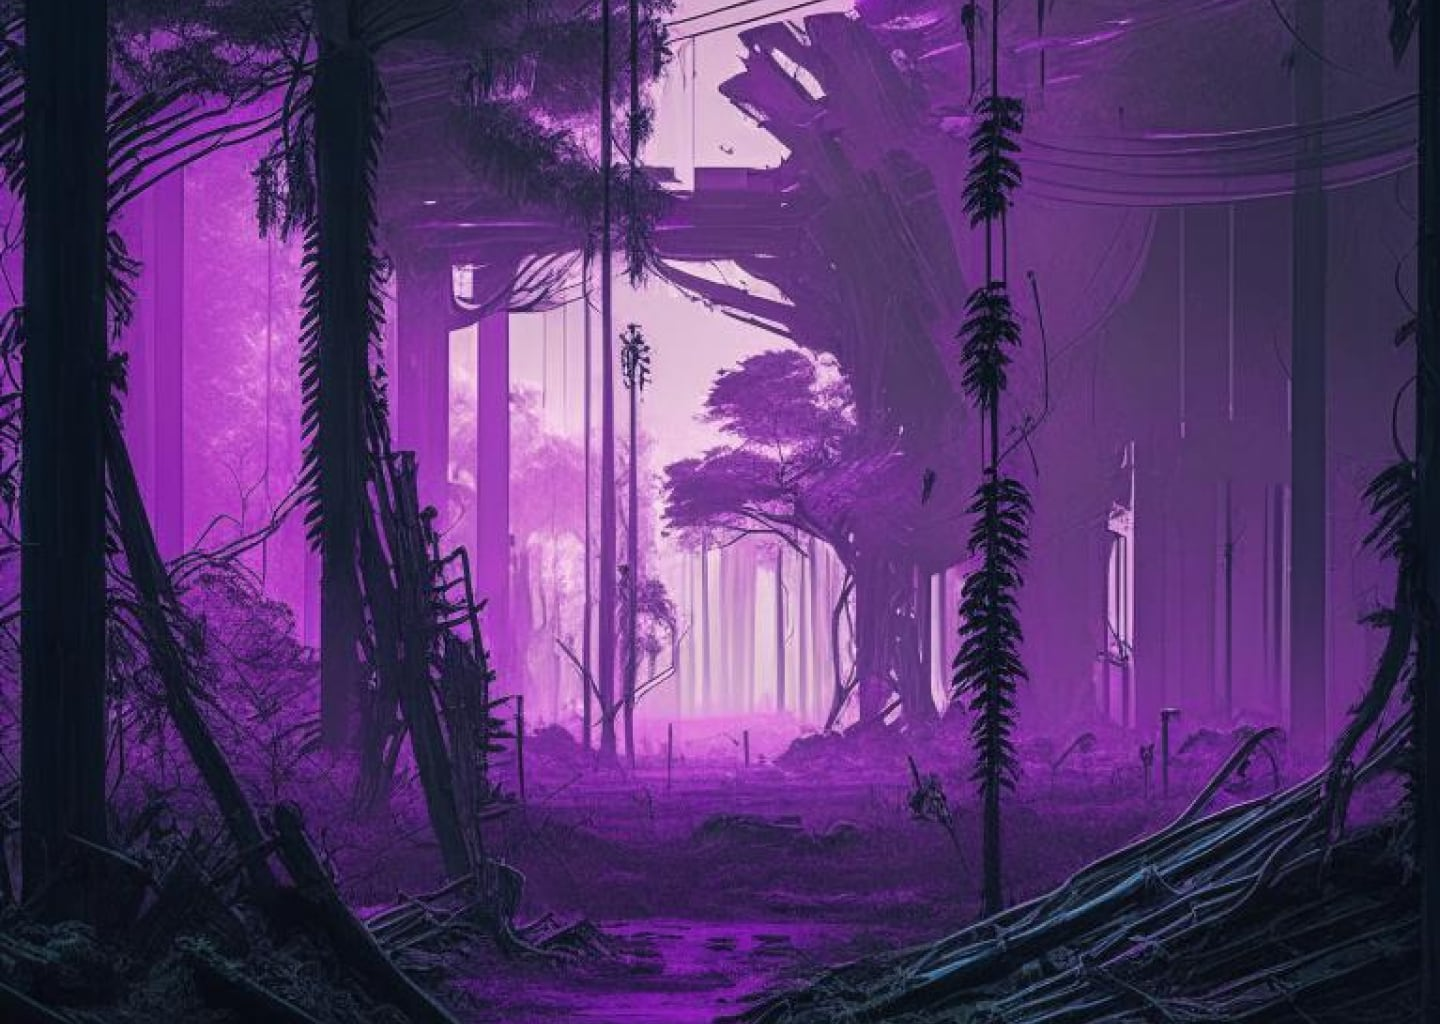
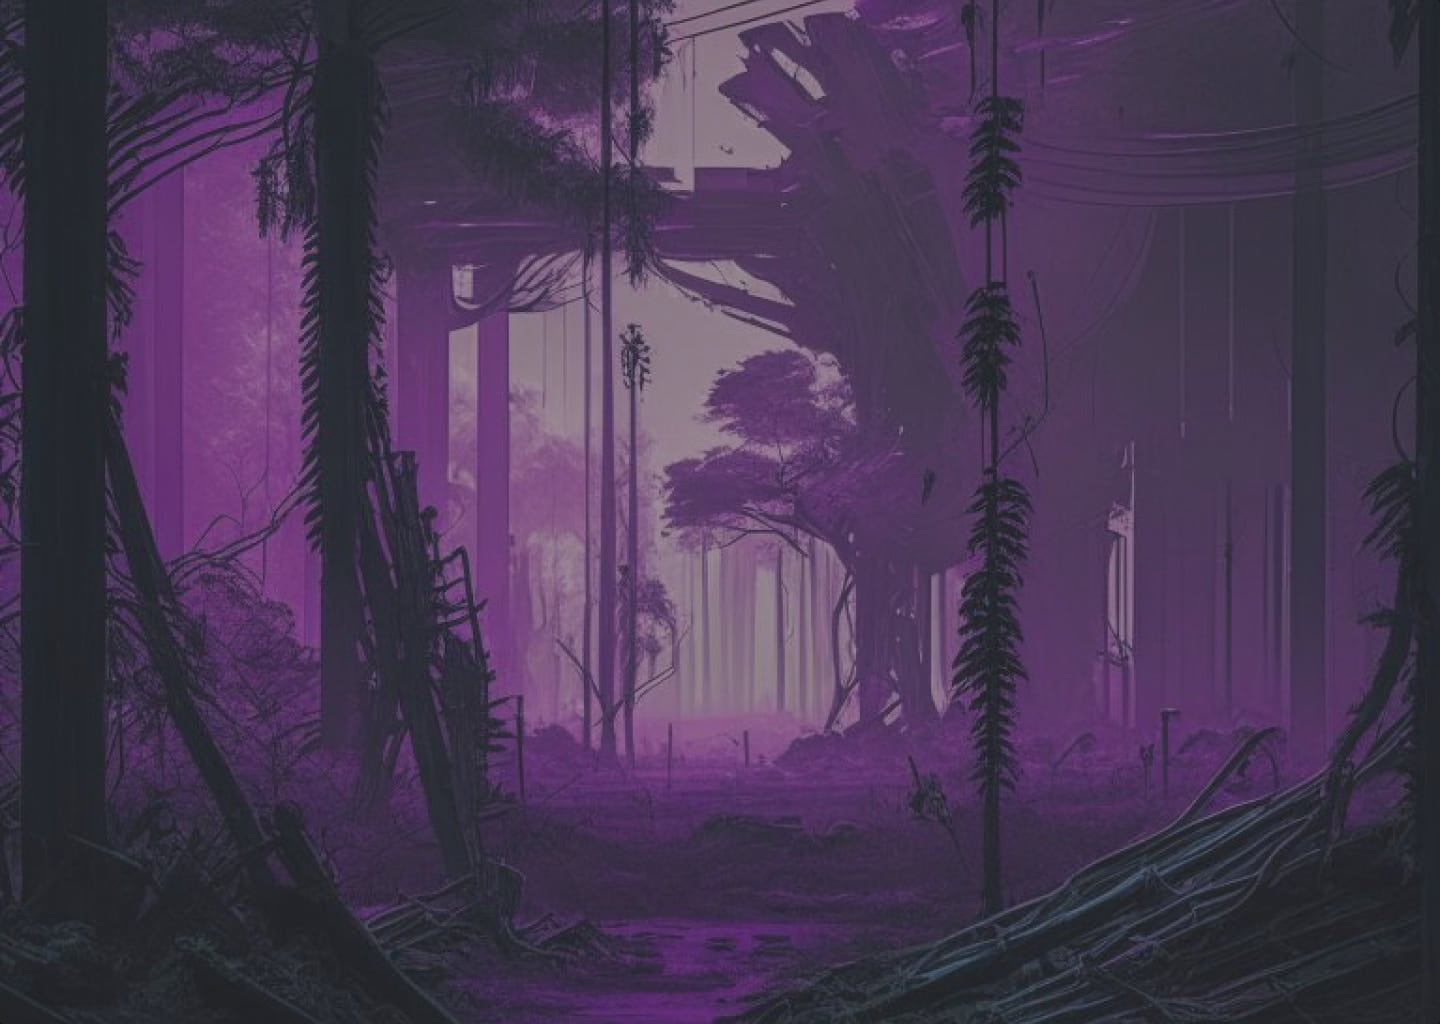
feat: Вёрстка страниц ошибок 500 и 400

diff --git a/packages/client/src/pages/page-error/page-error.module.scss b/packages/client/src/pages/page-error/page-error.module.scss
@@ -1,0 +1,71 @@
+@import "../../core/scss/_variables.scss";
+
+.container {
+	display: flex;
+	flex-direction: column;
+	justify-content: center;
+	align-items: center;
+	height: 100%;
+
+	h2 {
+		font-size: 39px;
+	}
+	h3 {
+		color: $color-white;
+		font-size: 26px;
+		text-shadow: $color-white 0 0 3px;
+	}
+
+	.message {
+		margin-top: 100px;
+		margin-left: 80px;
+	}
+
+	.images_murmur_404 {
+		height: 615px;
+		width: 757px;
+		background-image: url("../../assets/images/errors/animal-murmur-404.png"),  url("../../assets/images/errors/cyberforest.png"), url("../../assets/images/errors/circle-murmur-404.svg");
+		background-position: 100px 170px, bottom, top center;
+		background-repeat: no-repeat, no-repeat, no-repeat;
+		h2 {
+			color: $color-violet;
+			text-shadow: $color-violet 0 0 3px;
+		}
+	}
+
+	.images_murmur_500 {
+		height: 615px;
+		width: 757px;
+		background-image: url("../../assets/images/errors/animal-murmur-500.png"),  url("../../assets/images/errors/cyberforest.png"), url("../../assets/images/errors/circle-murmur-500.svg");
+		background-position: 140px 170px, bottom, top center;
+		background-repeat: no-repeat, no-repeat, no-repeat;
+		h2 {
+			color: $color-yellow;
+			text-shadow: $color-yellow 0 0 3px;
+		}
+	}
+
+	.images_neon_404 {
+		height: 615px;
+		width: 757px;
+		background-image: url("../../assets/images/errors/animal-neon-404.png"),  url("../../assets/images/errors/cyberforest.png"), url("../../assets/images/errors/circle-neon-404.svg");
+		background-position: 100px 160px, bottom, top center;
+		background-repeat: no-repeat, no-repeat, no-repeat;
+		h2 {
+			color: $color-neon;
+			text-shadow: $color-neon 0 0 3px;
+		}
+	}
+
+	.images_neon_500 {
+		height: 615px;
+		width: 757px;
+		background-image: url("../../assets/images/errors/animal-neon-500.png"),  url("../../assets/images/errors/cyberforest.png"), url("../../assets/images/errors/circle-neon-500.svg");
+		background-position: 110px 160px, bottom, top center;
+		background-repeat: no-repeat, no-repeat, no-repeat;
+		h2 {
+			color: $color-orange;
+			text-shadow: $color-orange 0 0 3px;
+		}
+	}
+}

diff --git a/packages/client/src/pages/page-error/page-error.tsx b/packages/client/src/pages/page-error/page-error.tsx
@@ -1,3 +1,28 @@
+import styles from './page-error.module.scss'
+import { useSelector } from 'react-redux'
+import { TRootState } from '../../core/store/store'
+
+import { useLocation } from 'react-router-dom'
+
+const errorMessages: Record<string, string> = {
+  404: 'Страница не найдена',
+  500: 'Что-то пошло не так...',
+}
+
 export const PageError = () => {
-  return <h1>Error</h1>
+  const { themeName } = useSelector((store: TRootState) => store.theme)
+  const location = useLocation()
+
+  const error = (location.state && location.state.error) || '404'
+
+  return (
+    <div className={styles.container}>
+      <div className={styles[`images_${themeName}_${error}`]}>
+        <div className={styles.message}>
+          <h2>{error}</h2>
+          <h3>{errorMessages[error]}</h3>
+        </div>
+      </div>
+    </div>
+  )
 }

diff --git a/packages/client/src/core/scss/_variables.scss b/packages/client/src/core/scss/_variables.scss
@@ -4,6 +4,10 @@ $offset-base-size: 4px;
 $color-white: #FFFFFF;
 $color-black: #000000;
 $color-gray: #b0b0b0;
+$color-yellow: #FEDF3E;
+$color-violet: #E2B0FF;
+$color-neon: #2BFFFB;
+$color-orange: #FB7C45;
 
 $color-error: red;
 $color-bg-neon: #10222e;

diff --git a/packages/client/src/core/store/reducers/theme-reducer.ts b/packages/client/src/core/store/reducers/theme-reducer.ts
@@ -2,7 +2,7 @@ import { createSlice } from '@reduxjs/toolkit'
 import { THEME } from '../../config/constants'
 
 const initialState = {
-  themeName: THEME.MURMUR,
+  themeName: THEME.NEON,
 }
 
 export const themeSlice = createSlice({
